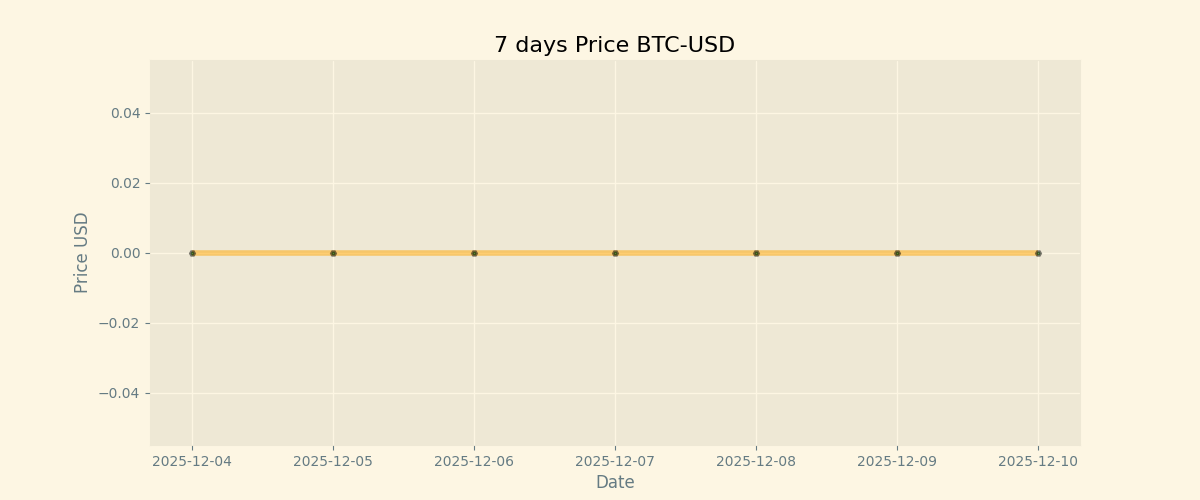
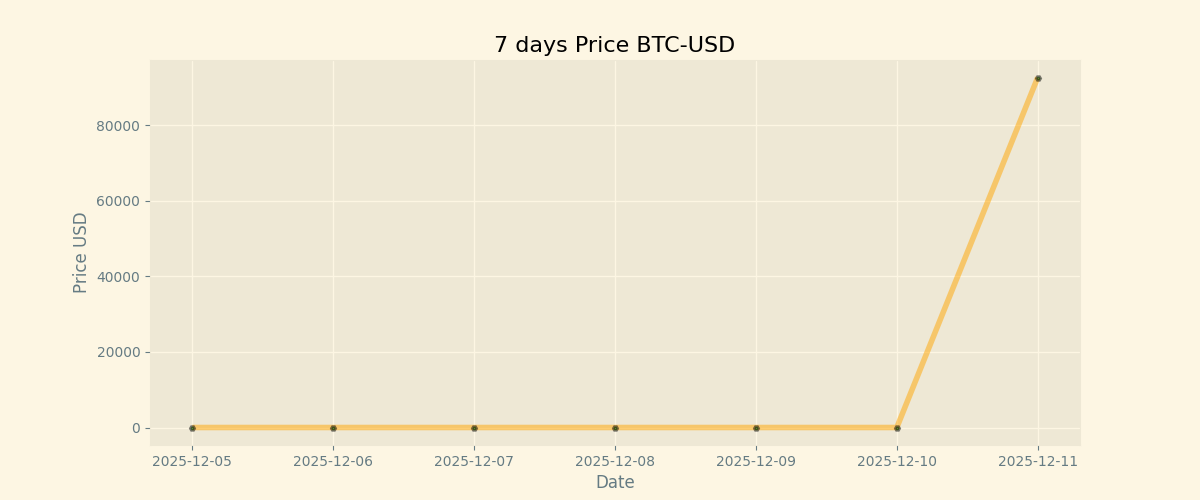
Duty Updates 2025-12-11

diff --git a/README.md b/README.md
@@ -9,7 +9,7 @@
 
 | Currency | Price           |
 | -------- | --------------- |
-| **BTC**  | **$ 0.0** |
+| **BTC**  | **$ 92565.67** |
 | **ETH**  | **$ 0.0** |
 
 ## BTC chart
